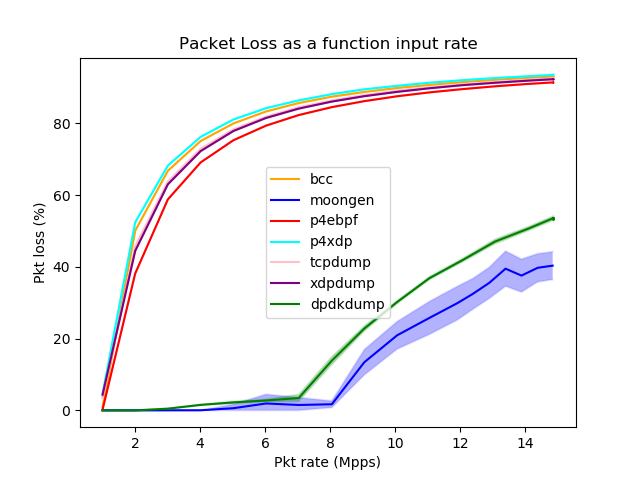
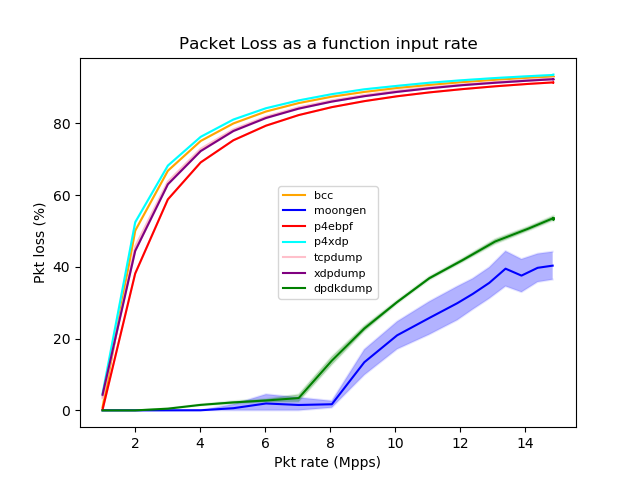
Loss benchmark plots amelioration

Changed region(s): [[0.4062, 0.3438, 0.625, 0.6875]]

diff --git a/Loss/plot.py b/Loss/plot.py
@@ -145,7 +145,7 @@ def plot_save():
     plt.title('Packet Loss as a function input rate')
     plt.ylabel('Pkt loss (%)')
     plt.xlabel('Pkt rate (Mpps)')
-    plt.legend(loc="best") 
+    plt.legend(loc="center", prop={'size': 8}) 
     plt.savefig("images/loss.png")
 
 #file_name = "data/%s/results_%s" % (METHOD, METHOD)
